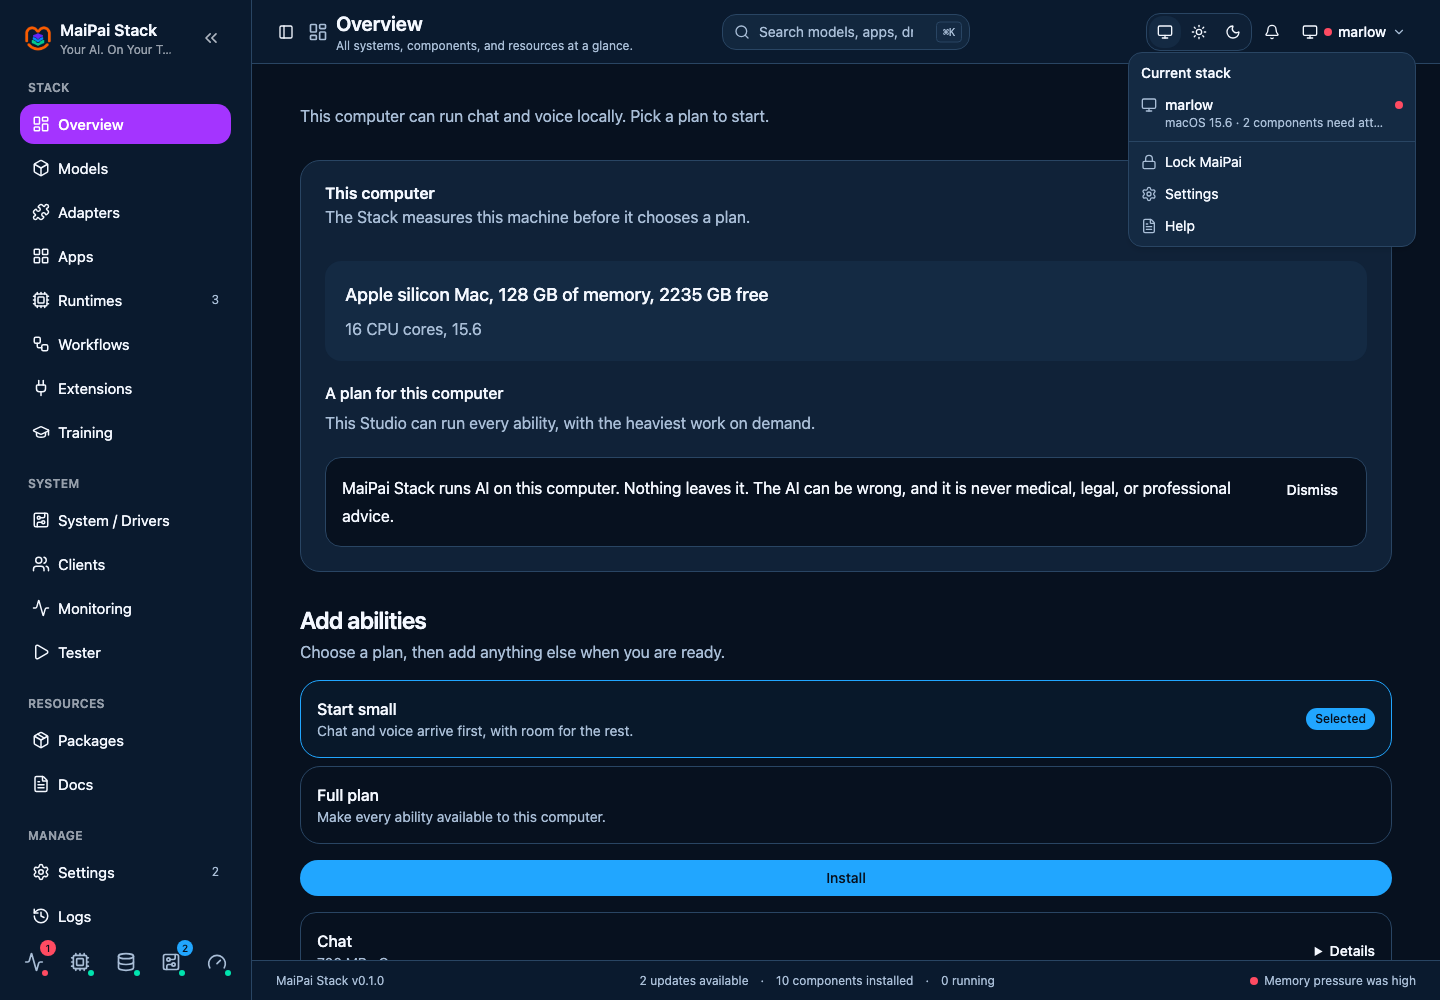
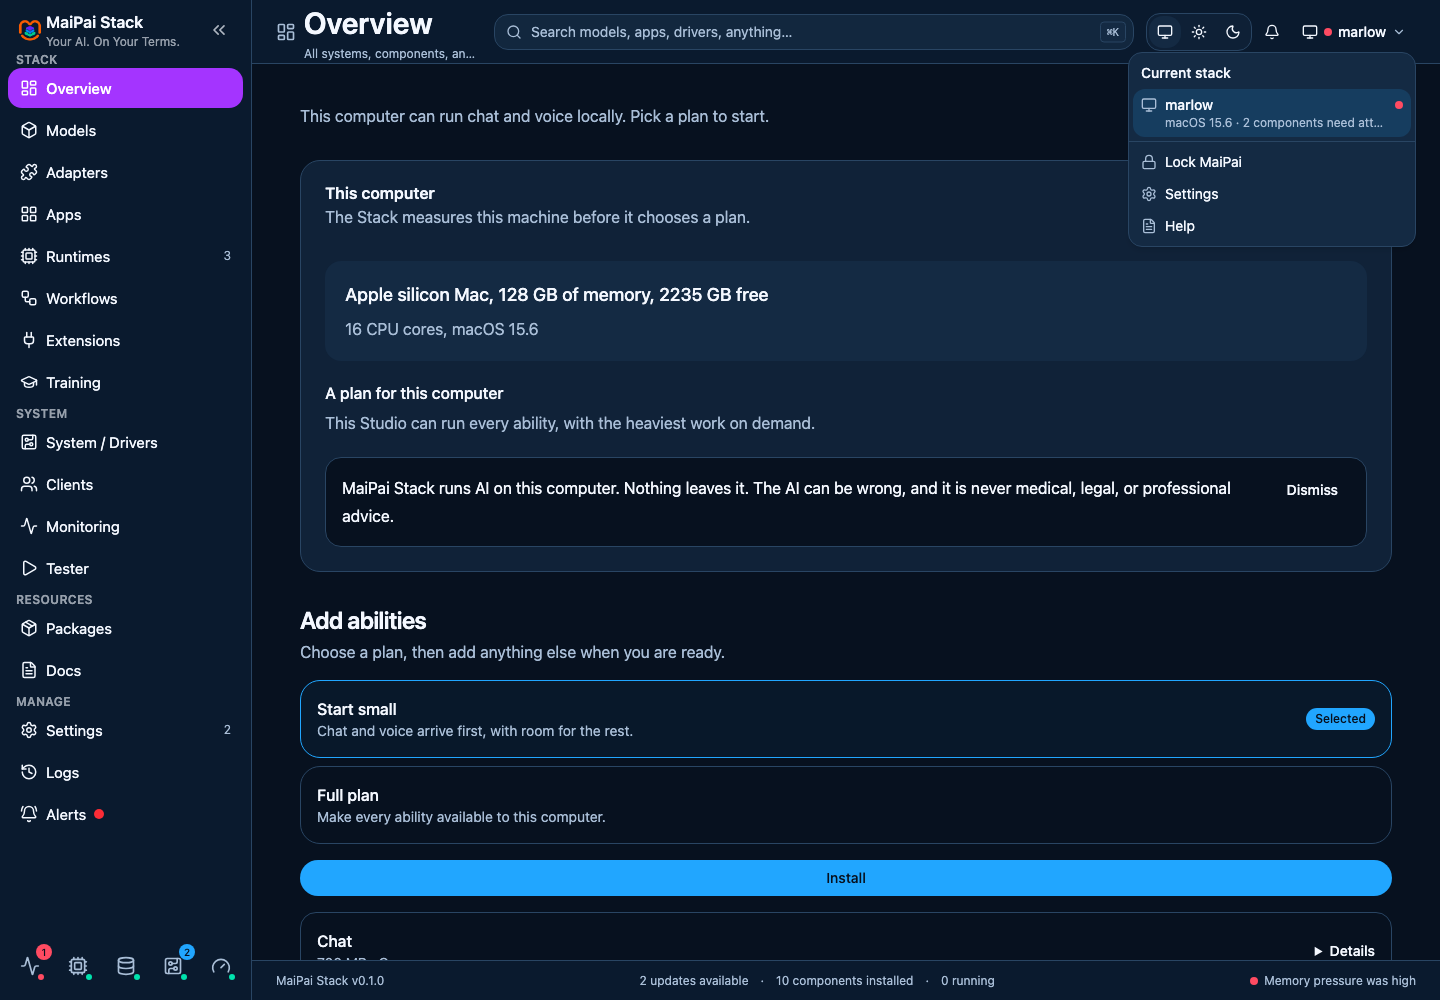
Console (UI-02): the shell against the reference
Seven fixes from the owner's retest of the three UI-02/03/04 captures,
each re-verified in a fresh 1440x1000 capture against the reference:

- The rail's nav list was pushing Alerts (the last of 17 destinations)
  below the fold with no way to reach it: tightened group padding and
  label height in nav-main.tsx so all 17 rows and 4 group labels fit an
  900px-tall viewport without scrolling, without touching the already-
  correct 40px row height. SidebarContent's own scroller (kit/ui/
  sidebar.tsx) still carries any real overflow beyond that.
- Removed the header's leftover panel-icon SidebarTrigger on desktop;
  the rail's own double-chevron (app-sidebar.tsx's RailToggle) is the
  spec's one toggle there. Kept SidebarTrigger for viewports under the
  720px mobile breakpoint, where the rail becomes an off-canvas drawer
  and RailToggle, living inside that drawer, can't be what opens it.
- Fixed the wordmark's tagline truncating to "Your AI. On Your T...":
  trimmed the icon, its padding, and the rail toggle a few px each to
  give "Your AI. On Your Terms." enough width to read in full at 12px
  without wrapping (wrapping would have grown the header and broken
  the 900px-fit budget above).
- Widened and centered the header search: the grid track it sat in
  was auto-sized against a full-width child with no floor, collapsing
  toward min-content. Now minmax(420px, 640px) at 1280px and up.
- The destination title and subtitle now read the shell's own
[…]

diff --git a/frontend/src/kit/blocks/dashboard/components/nav-main.tsx b/frontend/src/kit/blocks/dashboard/components/nav-main.tsx
@@ -7,5 +7,33 @@ export type NavGroup = { label: string; items: NavItem[] };
 
 export function NavMain({ groups }: { groups: NavGroup[] }) {
   const DOT: Record<"critical" | "error" | "warning", string> = { critical: "bg-red-500", error: "bg-red-500", warning: "bg-amber-500" };
-  return <div data-nav-mode="pinned" className="flex min-h-0 flex-1 flex-col"><div className="flex min-h-0 flex-1 flex-col justify-between"><div>{groups.map((group) => <SidebarGroup key={group.label} className="group/nav"><SidebarGroupLabel className="text-xs font-semibold tracking-wide text-sidebar-foreground/60 uppercase group-data-[collapsible=icon]:hidden">{group.label}</SidebarGroupLabel><SidebarMenu className="gap-1">{group.items.map((item) => <SidebarMenuItem key={item.title}><SidebarMenuButton asChild isActive={item.isActive} tooltip={item.tooltip ?? item.title} className="h-10 px-3 text-[15px] [&>svg]:size-[18px]! data-[active=true]:bg-[var(--hue-violet)] data-[active=true]:text-white data-[active=true]:hover:bg-[var(--hue-violet)] data-[active=true]:hover:text-white"><NavLink to={item.url}>{item.icon && <item.icon />}<span>{item.title}</span>{item.dot ? <span aria-hidden className={`size-2.5 rounded-full ${DOT[item.dot]}`} /> : null}{item.badge != null && item.badge > 0 && <span className="ml-auto text-xs text-muted-foreground">{item.badge}</span>}</NavLink></SidebarMenuButton></SidebarMenuItem>)}</SidebarMenu></SidebarGroup>)}</div></div></div>;
+  // The rail's own overflow-auto scroller (kit/ui/sidebar.tsx's
+  // SidebarContent) sits one level up; this list just needs to be able to
+  // shrink below its content size (min-h-0) so that scroller, not the
+  // whole rail, is what scrolls. Group padding and label height are kept
+  // tight so all 17 destinations plus their 4 group labels fit inside an
+  // 900px-tall viewport without needing to scroll at all.
+  return (
+    <div data-nav-mode="pinned" className="flex min-h-0 flex-1 flex-col gap-1">
+      {groups.map((group) => (
+        <SidebarGroup key={group.label} className="group/nav p-0">
+          <SidebarGroupLabel className="h-4 px-2 text-xs font-semibold tracking-wide text-sidebar-foreground/60 uppercase group-data-[collapsible=icon]:hidden">{group.label}</SidebarGroupLabel>
+          <SidebarMenu className="gap-0.5">
+            {group.items.map((item) => (
+              <SidebarMenuItem key={item.title}>
+                <SidebarMenuButton asChild isActive={item.isActive} tooltip={item.tooltip ?? item.title} className="h-10 px-3 text-[15px] [&>svg]:size-[18px]! data-[active=true]:bg-[var(--hue-violet)] data-[active=true]:text-white data-[active=true]:hover:bg-[var(--hue-violet)] data-[active=true]:hover:text-white">
+                  <NavLink to={item.url}>
+                    {item.icon && <item.icon />}
+                    <span>{item.title}</span>
+                    {item.dot ? <span aria-hidden className={`size-2.5 rounded-full ${DOT[item.dot]}`} /> : null}
+                    {item.badge != null && item.badge > 0 && <span className="ml-auto text-xs text-muted-foreground">{item.badge}</span>}
+                  </NavLink>
+                </SidebarMenuButton>
+              </SidebarMenuItem>
+            ))}
+          </SidebarMenu>
+        </SidebarGroup>
+      ))}
+    </div>
+  );
 }

diff --git a/frontend/src/kit/blocks/dashboard/components/site-header.tsx b/frontend/src/kit/blocks/dashboard/components/site-header.tsx
@@ -55,8 +55,11 @@ function DestinationHeader() {
     <div className="flex min-w-0 items-center gap-2">
       <Icon className="size-5 shrink-0 text-muted-foreground" aria-hidden="true" />
       <div className="min-w-0">
-        <h1 className="truncate text-lg font-semibold sm:text-xl">{destination.label}</h1>
-        <p className="hidden truncate text-xs text-muted-foreground sm:block">{destination.subtitle}</p>
+        {/* text-title/text-supporting are the shell's own scale (tokens.css); Tailwind
+            doesn't turn --font-size-* custom properties into utility classes, so they're
+            applied directly rather than duplicating the px/weight values here. */}
+        <h1 className="truncate" style={{ fontSize: "var(--font-size-title)", fontWeight: "var(--font-weight-title)" }}>{destination.label}</h1>
+        <p className="hidden truncate text-muted-foreground sm:block" style={{ fontSize: "var(--font-size-supporting)", fontWeight: "var(--font-weight-supporting)" }}>{destination.subtitle}</p>
       </div>
     </div>
   );
@@ -141,7 +144,7 @@ function GlobalSearch() {
   return (
     <Popover open={open}>
       <PopoverAnchor asChild>
-        <div className="relative w-full max-w-md">
+        <div className="relative w-full">
           <SearchIcon className="pointer-events-none absolute left-3 top-1/2 size-4 -translate-y-1/2 text-muted-foreground" />
           <Input
             ref={inputRef}
@@ -160,7 +163,7 @@ function GlobalSearch() {
         ref={contentRef}
         align="start"
         sideOffset={6}
-        className="w-(--radix-popover-trigger-width) max-w-md p-1"
+        className="w-(--radix-popover-trigger-width) p-1"
         onOpenAutoFocus={(event) => event.preventDefault()}
         onCloseAutoFocus={(event) => event.preventDefault()}
       >
@@ -219,12 +222,18 @@ function AppearanceControl() {
 export function SiteHeader() {
   return (
     <header className="sticky top-0 z-30 flex h-16 shrink-0 items-center border-b bg-[var(--surface-sidebar)] px-3 sm:px-4 lg:px-6">
-      <div className="grid w-full grid-cols-[1fr_auto_1fr] items-center gap-3">
+      <div className="grid w-full grid-cols-[1fr_auto_1fr] items-center gap-3 lg:grid-cols-[1fr_minmax(420px,640px)_1fr]">
         <div className="flex min-w-0 items-center gap-2">
-          <SidebarTrigger className="-ml-1 shrink-0" />
+          {/* The rail's own double-chevron (app-sidebar.tsx's RailToggle) is the
+              one desktop toggle the reference shows; it lives inside the rail
+              itself though, which is off-canvas and undiscoverable below the
+              720px mobile breakpoint, so this stays as the only way to open
+              the mobile drawer there instead of duplicating a visible toggle
+              on desktop. */}
+          <SidebarTrigger className="-ml-1 shrink-0 md:hidden" />
           <DestinationHeader />
         </div>
-        <div className="hidden justify-self-center sm:block">
+        <div className="hidden justify-self-center sm:block sm:w-full">
           <GlobalSearch />
         </div>
         <div className="flex items-center justify-self-end gap-1">

diff --git a/frontend/src/kit/blocks/dashboard/components/app-sidebar.tsx b/frontend/src/kit/blocks/dashboard/components/app-sidebar.tsx
@@ -12,7 +12,7 @@ const ChevronsRight = getIcon("ChevronsRight");
 function RailToggle(): React.ReactElement {
   const { state, toggleSidebar } = useSidebar();
   const expanded = state === "expanded";
-  return <button type="button" onClick={toggleSidebar} aria-expanded={expanded} aria-label={expanded ? "Collapse navigation" : "Expand navigation"} className="flex size-11 shrink-0 items-center justify-center rounded-md text-sidebar-foreground/70 hover:bg-sidebar-accent hover:text-sidebar-accent-foreground">
+  return <button type="button" onClick={toggleSidebar} aria-expanded={expanded} aria-label={expanded ? "Collapse navigation" : "Expand navigation"} className="flex size-9 shrink-0 items-center justify-center rounded-md text-sidebar-foreground/70 hover:bg-sidebar-accent hover:text-sidebar-accent-foreground">
     {expanded ? <ChevronsLeft className="size-5" /> : <ChevronsRight className="size-5" />}
   </button>;
 }
@@ -34,11 +34,11 @@ export function AppSidebar({ engineCount = 0, updateCount = 0, alertSeverity = n
       tooltip: tooltips[destination.id],
     })),
   }));
-  return <Sidebar collapsible="icon" className="bg-[var(--surface-sidebar)] p-3 pb-4" {...props}>
+  return <Sidebar collapsible="icon" className="bg-[var(--surface-sidebar)] p-2 pb-3" {...props}>
     <SidebarHeader className="p-0">
       <SidebarMenu><SidebarMenuItem>
         <div className="flex items-center justify-between gap-2 px-1.5 py-1 group-data-[collapsible=icon]:flex-col group-data-[collapsible=icon]:gap-2">
-          <SidebarMenuButton asChild className="data-[slot=sidebar-menu-button]:p-1.5! flex-1 group-data-[collapsible=icon]:flex-none"><Link to="/"><img className="size-7" src="/brand/maipai-stack-icon-light.png" alt="" /><div className="flex min-w-0 flex-col group-data-[collapsible=icon]:hidden"><span className="truncate text-base font-semibold">MaiPai Stack</span><span className="truncate text-xs text-sidebar-foreground/60">Your AI. On Your Terms.</span></div></Link></SidebarMenuButton>
+          <SidebarMenuButton asChild className="data-[slot=sidebar-menu-button]:p-1! flex-1 gap-1 group-data-[collapsible=icon]:flex-none"><Link to="/"><img className="size-6" src="/brand/maipai-stack-icon-light.png" alt="" /><div className="flex min-w-0 flex-col group-data-[collapsible=icon]:hidden"><span className="truncate text-base font-semibold">MaiPai Stack</span><span className="truncate text-xs text-sidebar-foreground/60">Your AI. On Your Terms.</span></div></Link></SidebarMenuButton>
           <RailToggle />
         </div>
       </SidebarMenuItem></SidebarMenu>

diff --git a/frontend/src/lib/plainHardware.ts b/frontend/src/lib/plainHardware.ts
@@ -14,6 +14,15 @@ function platformName(hardware: HardwareInfo): string {
   return "This computer";
 }
 
+// Same branch as platformName(), so the OS name matches the computer name
+// on the line above it rather than assuming every build is macOS.
+function osName(hardware: HardwareInfo): string {
+  if (hardware.platform === "darwin") return "macOS";
+  if (hardware.platform === "win32") return "Windows";
+  if (hardware.platform === "linux") return "Linux";
+  return hardware.platform;
+}
+
 export function plainHardware(hardware: HardwareInfo): string {
   const memory = Math.max(0, Math.round(hardware.isAppleSilicon ? hardware.unifiedMemoryGb : hardware.totalRamGb));
   const freeDisk = Math.max(0, Math.round(hardware.freeDiskBytes / 1_073_741_824));
@@ -23,6 +32,6 @@ export function plainHardware(hardware: HardwareInfo): string {
 export function plainHardwareDetails(hardware: HardwareInfo): string[] {
   return [
     plainHardware(hardware),
-    `${hardware.cpuCount} CPU cores, ${hardware.osVersion}`,
+    `${hardware.cpuCount} CPU cores, ${osName(hardware)} ${hardware.osVersion}`,
   ];
 }

diff --git a/frontend/src/kit/blocks/dashboard/components/machine-selector.tsx b/frontend/src/kit/blocks/dashboard/components/machine-selector.tsx
@@ -63,7 +63,11 @@ export function MachineSelector() {
       </DropdownMenuTrigger>
       <DropdownMenuContent align="end" className="w-72">
         <DropdownMenuLabel>Current stack</DropdownMenuLabel>
-        <DropdownMenuItem disabled className="flex items-start gap-2 opacity-100 data-[disabled]:opacity-100">
+        {/* The violet-blue wash reads as "this is the one you're on"
+            without the bright solid fill nav-main.tsx uses for an active
+            row: machine-stack-selector.png shows the current stack as a
+            highlighted row, not a filled one. */}
+        <DropdownMenuItem disabled className="flex items-start gap-2 rounded-sm bg-[var(--primary)]/15 opacity-100 data-[disabled]:opacity-100">
           <MonitorIcon className="mt-0.5 size-4 shrink-0" />
           <span className="min-w-0 flex-1">
             <span className="block truncate text-sm font-medium text-foreground">{name}</span>
